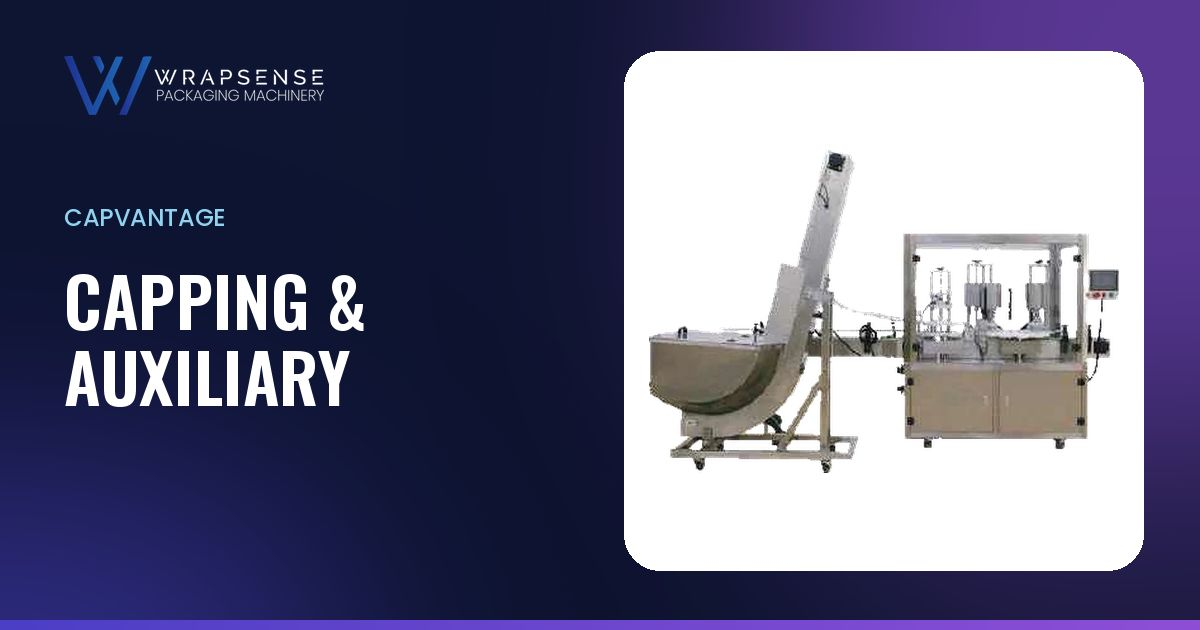
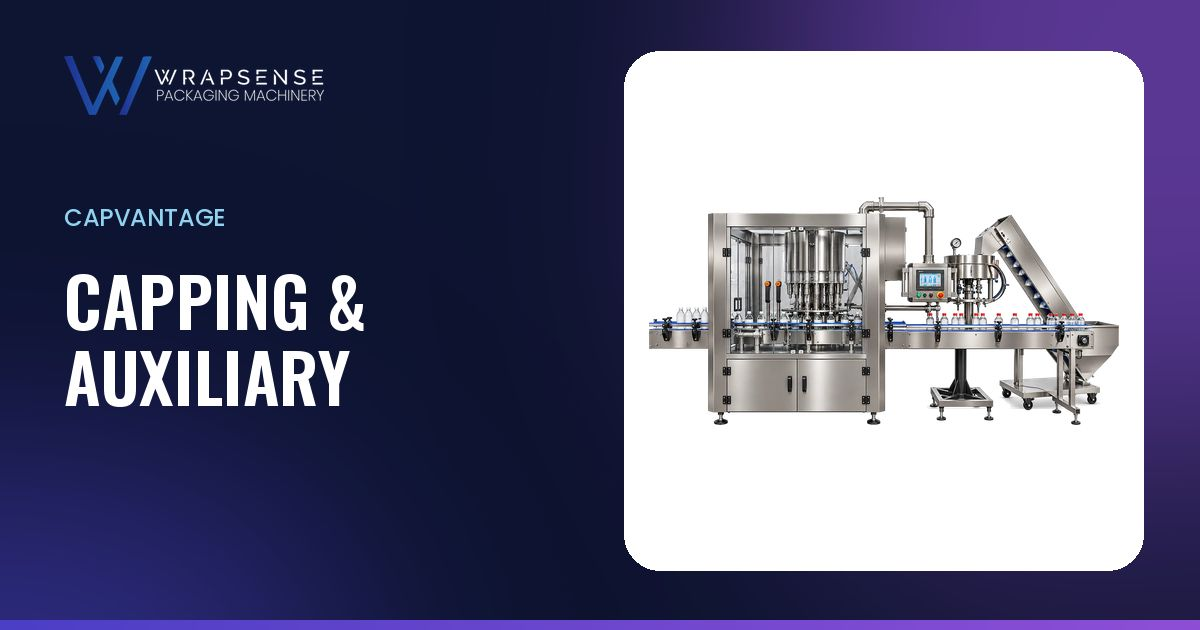
CapVantage SDL-2: new render; blurry capping photo removed
- New filler/capper line render cut out from white (pure-white background only, so the clear bottles
  and glass stay), 1600x776 WebP with alpha; same filename so all pages update; OG images regenerated
- Removed the blurry video-still capping photo from the gallery, deleted it and dropped it from the
  catalog extraction script

Claude-Session: https://claude.ai/code/session_01QFn2KCFGMPNr5c9DCf1rvZ

Changed region(s): [[0.5242, 0.2413, 0.9558, 0.754]]

diff --git a/tools/extract-catalog-images.py b/tools/extract-catalog-images.py
@@ -40,8 +40,7 @@ MAP = {
   123:('photos','weigher-snacks','photo'), 125:('photos','weigher-install','photo'), 128:('photos','vffs-install','photo'),
   181:('photos','case-erector-action','photo'),
   206:('photos','case-packing-action','photo'), 204:('photos','case-packing-line','photo'),
-  226:('photos','cartoning-action','photo'), 228:('photos','cartoning-rotary','photo'),
-  246:('photos','capping-action','photo'), 250:('photos','sachet-film','photo'), 251:('photos','weigher-detail','photo'),
+  226:('photos','cartoning-action','photo'), 228:('photos','cartoning-rotary','photo'), 250:('photos','sachet-film','photo'), 251:('photos','weigher-detail','photo'),
 }
 
 tmp = tempfile.mkdtemp()
